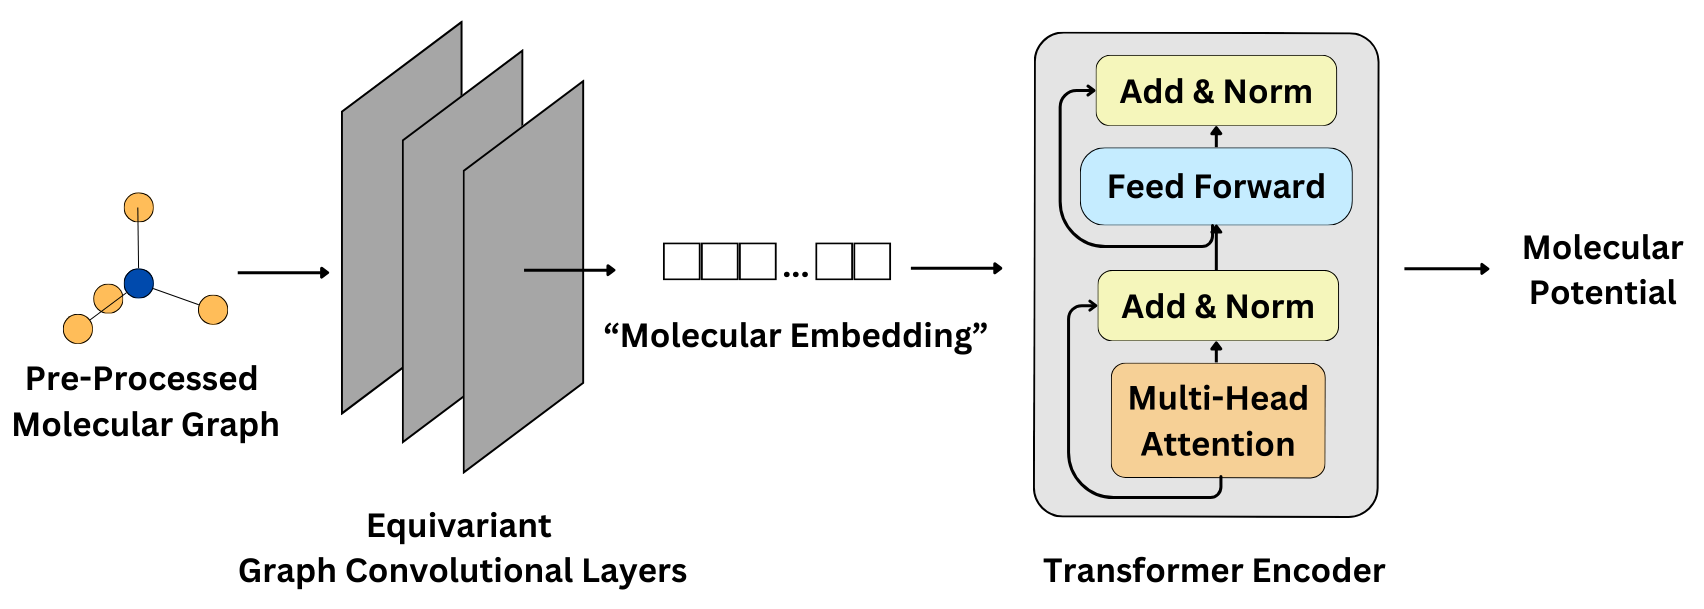
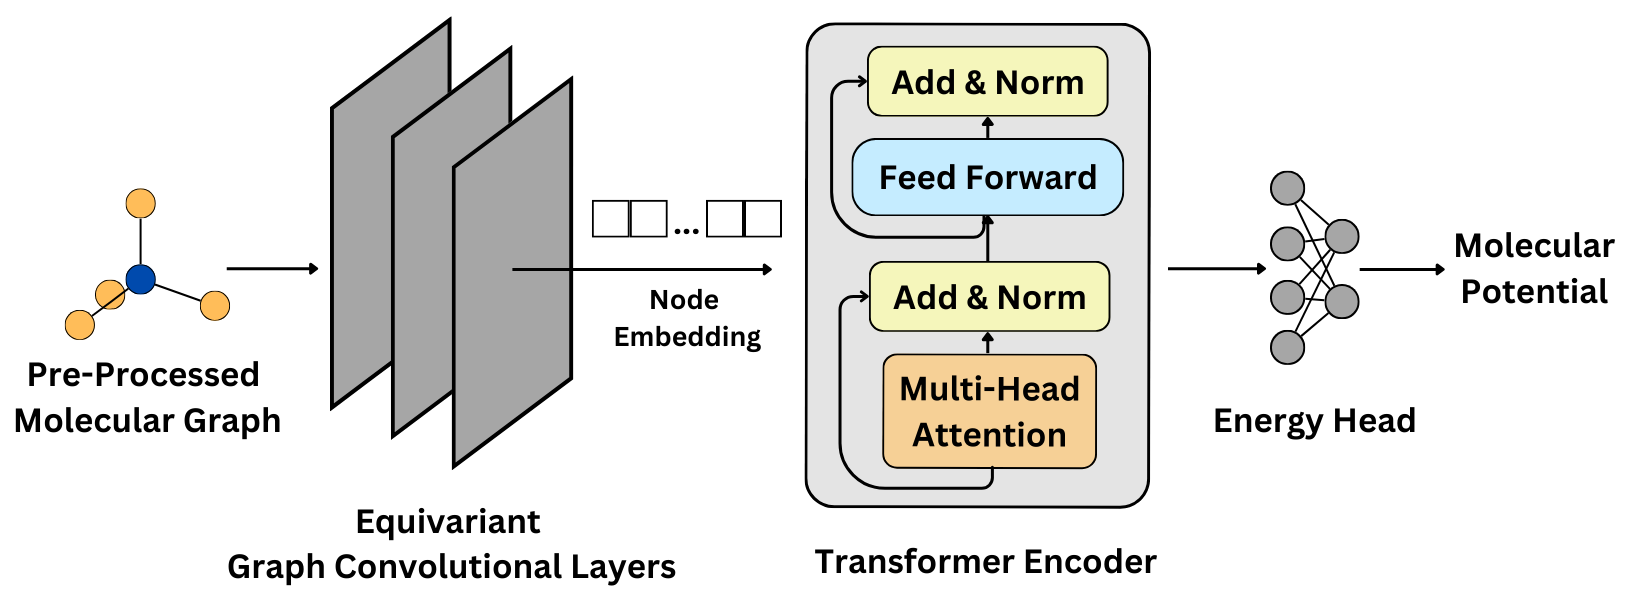
Updated architecture graph

diff --git a/README.md b/README.md
@@ -1,6 +1,6 @@
 # ANI-1 Molecular Potential Prediction using Pre-trained EGNN and Transformer-Encoder
 
-![Alt Text!](images/architecture.png)
+![Alt Text!](images/architecture.png)<br>
 This repository holds an Equivariant Graph Neural Network (EGNN) + Transformer-Encoder model used for end-to-end ANI-1 molecular potential prediction. The details for pretraining, fine-tuning and visualization could be found below.
 
 Note: The EGNN portion of the model used is a modified version from [Reference 1/3](#reference), which does not perform node-coordinates update through layers. Therefore, it possesses an invariant property instead of E(n), which was described in the original paper.
